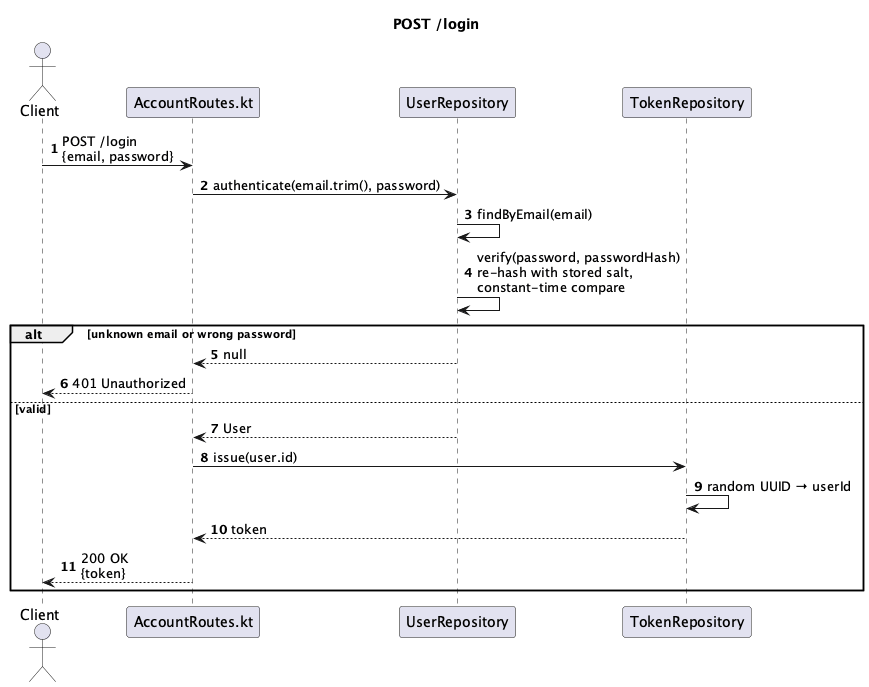
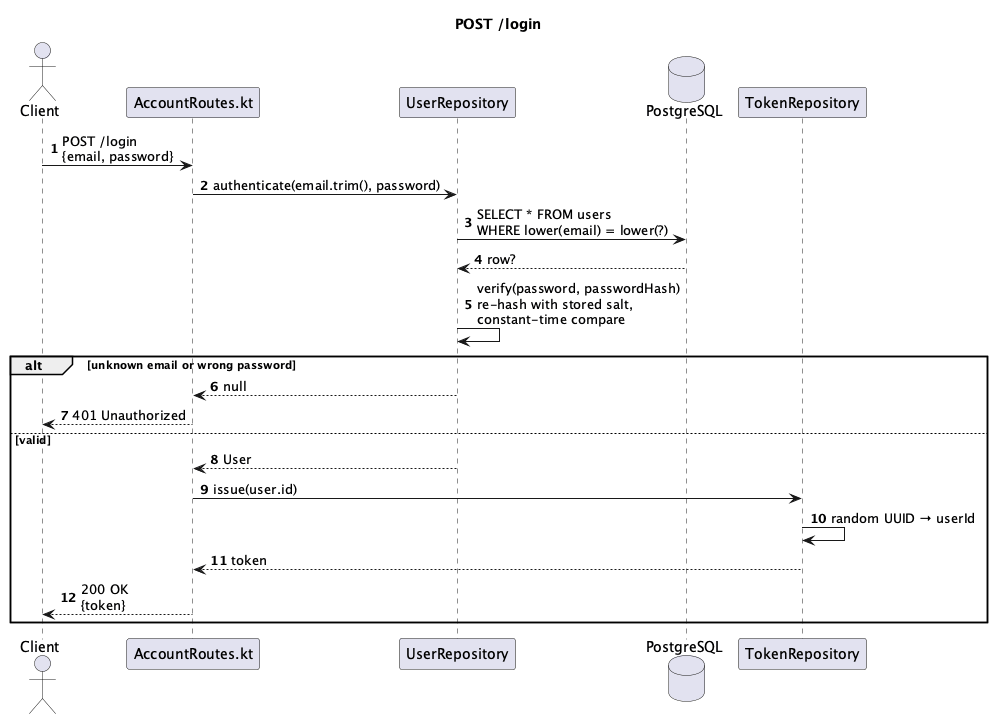
Store accounts in PostgreSQL
UserRepository becomes a class on the shared data source with a users table. The unique index on lower(email) decides who gets an address, and identity ids are never handed out again after a delete. Tokens stay in memory. The account diagrams show the database.

diff --git a/src/accounts/UserRepository.kt b/src/accounts/UserRepository.kt
@@ -1,37 +1,45 @@
 package com.example.accounts
 
+import com.example.database.runScript
 import java.security.MessageDigest
 import java.security.SecureRandom
 import java.util.Base64
 import javax.crypto.SecretKeyFactory
 import javax.crypto.spec.PBEKeySpec
+import javax.sql.DataSource
 
-// ponytail: in-memory store, swap for the database once #10 lands
-object UserRepository {
-    private val users = mutableListOf<User>()
-    private var nextId = 1 // a counter, because users.size + 1 repeats an id once a user is deleted
+class UserRepository(private val dataSource: DataSource) {
+    init {
+        dataSource.runScript("users.sql")
+    }
 
+    // null when the email is taken: the unique index on lower(email) decides, so two requests at once can't both win.
     fun register(name: String, email: String, password: String): User? {
-        val passwordHash = hash(password) // slow, so keep it outside the lock
-        synchronized(this) {
-            if (findByEmail(email) != null) return null
-            return User(nextId++, name, email, passwordHash).also { users.add(it) }
-        }
+        val passwordHash = hash(password) // slow, so keep it away from the database connection
+        return queryUser("INSERT INTO users (name, email, password_hash) VALUES (?, ?, ?) ON CONFLICT DO NOTHING RETURNING *", name, email, passwordHash)
     }
 
     fun authenticate(email: String, password: String): User? =
-        synchronized(this) { findByEmail(email) }?.takeIf { verify(password, it.passwordHash) }
+        queryUser("SELECT * FROM users WHERE lower(email) = lower(?)", email)?.takeIf { verify(password, it.passwordHash) }
 
-    @Synchronized
-    fun find(id: Int): User? = users.find { it.id == id }
+    fun find(id: Int): User? = queryUser("SELECT * FROM users WHERE id = ?", id)
 
-    @Synchronized
-    fun delete(id: Int) = users.removeAll { it.id == id }
+    fun delete(id: Int): Boolean = dataSource.connection.use { connection ->
+        connection.prepareStatement("DELETE FROM users WHERE id = ?").use { it.setInt(1, id); it.executeUpdate() > 0 }
+    }
 
-    @Synchronized
-    fun clear() = users.clear()
+    fun clear() {
+        dataSource.connection.use { it.createStatement().use { statement -> statement.execute("TRUNCATE users RESTART IDENTITY") } }
+    }
 
-    private fun findByEmail(email: String) = users.find { it.email.equals(email, ignoreCase = true) }
+    private fun queryUser(sql: String, vararg parameters: Any): User? = dataSource.connection.use { connection ->
+        connection.prepareStatement(sql).use { statement ->
+            parameters.forEachIndexed { index, parameter -> statement.setObject(index + 1, parameter) }
+            statement.executeQuery().use { rows ->
+                if (rows.next()) User(rows.getInt("id"), rows.getString("name"), rows.getString("email"), rows.getString("password_hash")) else null
+            }
+        }
+    }
 
     private fun hash(password: String, salt: ByteArray = ByteArray(16).also { SecureRandom().nextBytes(it) }): String {
         val key = SecretKeyFactory.getInstance("PBKDF2WithHmacSHA256")

diff --git a/test/accounts/UserRepositoryTest.kt b/test/accounts/UserRepositoryTest.kt
@@ -1,30 +1,56 @@
 package com.example.accounts
 
+import com.example.database.TestDatabase
 import kotlin.test.*
 
 class UserRepositoryTest {
+    private val users = UserRepository(TestDatabase.dataSource)
+
     @BeforeTest
-    fun reset() = UserRepository.clear()
+    fun reset() = users.clear()
 
     @Test
     fun RegisterDuplicateEmailReturnsNull() {
-        UserRepository.register("Jan", "jan@example.com", "supersecret")
+        users.register("Jan", "jan@example.com", "supersecret")
 
-        assertNull(UserRepository.register("Piet", "jan@example.com", "anothersecret"))
+        assertNull(users.register("Piet", "jan@example.com", "anothersecret"))
     }
 
     @Test
     fun RegisterComparesEmailIgnoringCase() {
-        UserRepository.register("Jan", "jan@example.com", "supersecret")
+        users.register("Jan", "jan@example.com", "supersecret")
 
-        assertNull(UserRepository.register("Jan", "JAN@Example.COM", "supersecret"))
+        assertNull(users.register("Jan", "JAN@Example.COM", "supersecret"))
     }
 
     @Test
     fun RegisterStoresHashedPassword() {
-        val user = assertNotNull(UserRepository.register("Jan", "jan@example.com", "supersecret"))
+        val user = assertNotNull(users.register("Jan", "jan@example.com", "supersecret"))
 
         assertNotEquals("supersecret", user.passwordHash)
         assertFalse(user.passwordHash.contains("supersecret"))
+    }
+
+    @Test
+    fun UserIsStillThereForANewRepositoryOnTheSameDatabase() {
+        val user = assertNotNull(users.register("Jan", "jan@example.com", "supersecret"))
+
+        val afterRestart = UserRepository(TestDatabase.dataSource)
+
+        assertEquals(user.id, afterRestart.find(user.id)?.id)
+        assertEquals(user.id, afterRestart.authenticate("JAN@example.com", "supersecret")?.id)
+        assertNull(afterRestart.authenticate("jan@example.com", "wrongpassword"))
+    }
+
+    @Test
+    fun DeletedUserIdIsNotHandedOutAgain() {
+        val first = assertNotNull(users.register("Jan", "jan@example.com", "supersecret"))
+        assertTrue(users.delete(first.id))
+
+        val second = assertNotNull(users.register("Piet", "piet@example.com", "supersecret"))
+
+        assertNull(users.find(first.id))
+        assertNotEquals(first.id, second.id)
+        assertFalse(users.delete(first.id))
     }
 }

diff --git a/src/accounts/AccountRoutes.kt b/src/accounts/AccountRoutes.kt
@@ -11,7 +11,7 @@ import io.ktor.server.util.*
 private const val MIN_PASSWORD_LENGTH = 8
 private val EMAIL_PATTERN = Regex("[^@\\s]+@[^@\\s]+\\.[^@\\s]+") // something@domain.tld, nothing stricter
 
-fun Application.configureAccounts() {
+fun Application.configureAccounts(users: UserRepository) {
     routing {
         post("/accounts") {
             val request = call.receive<RegisterRequest>() // Ktor answers unreadable bodies with 400 or 415
@@ -21,7 +21,7 @@ fun Application.configureAccounts() {
                 call.respond(HttpStatusCode.BadRequest)
                 return@post
             }
-            val user = UserRepository.register(name, email, request.password)
+            val user = users.register(name, email, request.password)
             if (user == null) {
                 call.respond(HttpStatusCode.Conflict)
                 return@post
@@ -31,7 +31,7 @@ fun Application.configureAccounts() {
 
         post("/login") {
             val request = call.receive<LoginRequest>()
-            val user = UserRepository.authenticate(request.email.trim(), request.password)
+            val user = users.authenticate(request.email.trim(), request.password)
             if (user == null) {
                 call.respond(HttpStatusCode.Unauthorized)
                 return@post
@@ -43,10 +43,10 @@ fun Application.configureAccounts() {
             delete("/accounts/{id}") {
                 val id = call.parameters.getOrFail<Int>("id")
                 val status = when {
-                    UserRepository.find(id) == null -> HttpStatusCode.NotFound
+                    users.find(id) == null -> HttpStatusCode.NotFound
                     id != call.principal<User>()?.id -> HttpStatusCode.Forbidden
                     else -> {
-                        UserRepository.delete(id)
+                        users.delete(id)
                         HttpStatusCode.NoContent
                     }
                 }

diff --git a/src/Application.kt b/src/Application.kt
@@ -1,5 +1,6 @@
 package org.jetbrains.amper.ktor
 
+import com.example.accounts.UserRepository
 import com.example.accounts.configureAccounts
 import com.example.accounts.configureSecurity
 import com.example.cars.PostgresCarRepository
@@ -16,7 +17,9 @@ fun main(args: Array<String>) {
 fun Application.module() {
     configureSerialization()
     configureRouting()
-    configureCars(PostgresCarRepository(connectDatabase()))
-    configureSecurity()
-    configureAccounts()
+    val dataSource = connectDatabase()
+    val users = UserRepository(dataSource)
+    configureCars(PostgresCarRepository(dataSource))
+    configureSecurity(users)
+    configureAccounts(users)
 }

diff --git a/src/accounts/Security.kt b/src/accounts/Security.kt
@@ -5,10 +5,10 @@ import io.ktor.server.auth.*
 
 // Routes inside `authenticate { }` need an `Authorization: Bearer <token>` header from POST /login.
 // The logged-in user is then available as `call.principal<User>()`.
-fun Application.configureSecurity() {
+fun Application.configureSecurity(users: UserRepository) {
     install(Authentication) {
         bearer {
-            authenticate { credential -> TokenRepository.userId(credential.token)?.let(UserRepository::find) }
+            authenticate { credential -> TokenRepository.userId(credential.token)?.let(users::find) }
         }
     }
 }

diff --git a/test/accounts/AccountRoutesTest.kt b/test/accounts/AccountRoutesTest.kt
@@ -1,5 +1,6 @@
 package com.example.accounts
 
+import com.example.database.TestDatabase
 import com.example.database.useTestDatabase
 import io.ktor.client.HttpClient
 import io.ktor.client.request.bearerAuth
@@ -21,7 +22,7 @@ import kotlin.test.*
 
 class AccountRoutesTest {
     @BeforeTest
-    fun reset() = UserRepository.clear()
+    fun reset() = UserRepository(TestDatabase.dataSource).clear()
 
     private fun valid(email: String = "jan@example.com") =
         """{"name":"Jan","email":"$email","password":"supersecret"}"""

diff --git a/src/accounts/TokenRepository.kt b/src/accounts/TokenRepository.kt
@@ -3,7 +3,7 @@ package com.example.accounts
 import java.util.UUID
 import java.util.concurrent.ConcurrentHashMap
 
-// ponytail: in-memory tokens that never expire and are lost on restart, fine until #10 lands
+// ponytail: in-memory tokens that never expire and are lost on restart (users log in again), keep them in a table when that matters
 object TokenRepository {
     private val userIds = ConcurrentHashMap<String, Int>()
 

diff --git a/README.md b/README.md
@@ -36,13 +36,13 @@ If the server starts successfully, you'll see the following output:
 
 ## Database
 
-The cars are stored in PostgreSQL. Start a local database before running the server:
+The cars and accounts are stored in PostgreSQL. Start a local database before running the server:
 
 ```bash
 docker compose up -d
 ```
 
-The connection defaults match `docker-compose.yml`. Override them with the environment variables `DATABASE_URL`, `DATABASE_USER` and `DATABASE_PASSWORD`. The tables are created and filled with sample cars when the server starts.
+The connection defaults match `docker-compose.yml`. Override them with the environment variables `DATABASE_URL`, `DATABASE_USER` and `DATABASE_PASSWORD`. The tables are created when the server starts, and the cars table is filled with sample cars when it is empty. Login tokens are not stored: after a restart everyone logs in again.
 
 The tests don't need Docker: they start their own Postgres.
 
